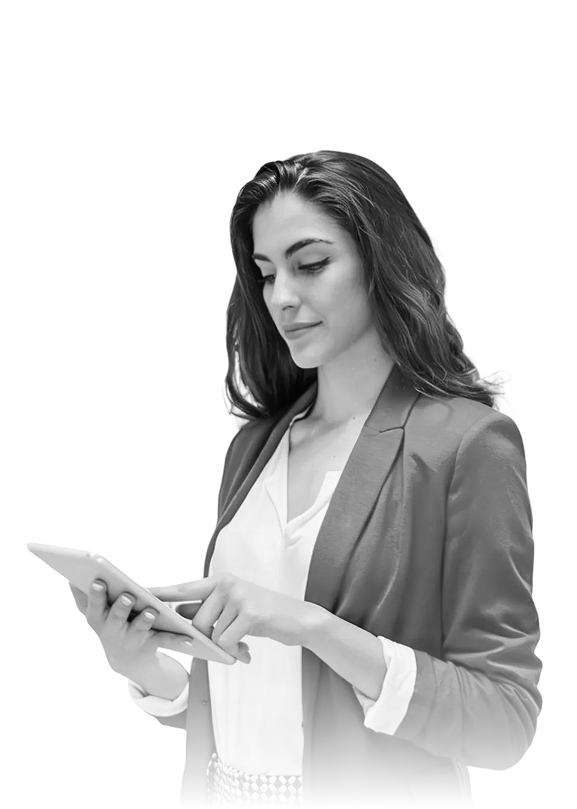
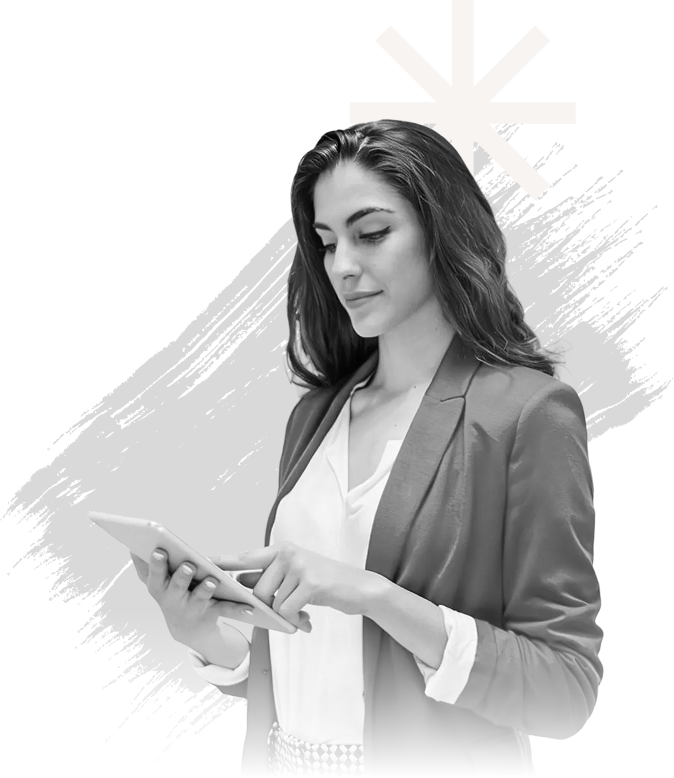
awards and contact us CTA and images has been replaced

Changed region(s): [[0.0, 0.1542, 0.9983, 0.9871], [0.7799, 0.9254, 0.8111, 0.9871], [0.4679, 0.9563, 0.4991, 0.9871]]

diff --git a/app/digital-transformation-services/components/ContactSection.tsx b/app/digital-transformation-services/components/ContactSection.tsx
@@ -1,0 +1,97 @@
+import React from "react";
+
+const ContactSection: React.FC = () => {
+  return (
+    <section className="w-full bg-[#F9FAFB] sm:px-5 md:px-5 md:py-16 lg:pb-10">
+      <div className="max-w-7xl mx-auto">
+
+        {/* Desktop */}
+        <div
+          className="hidden sm:block md:block 
+           rounded-[15px] px-12 py-10 sm:py-5 md:py-5 lg:px-16 lg:py-8 xl:px-10 xl:py-8 
+           relative overflow-hidden
+            bg-[#EFEFEF]
+               transition-all duration-300 ease-out
+                 border-1 border-[#E1E1E1]
+                shadow-[-3px_-6px_16px_0_rgba(253,253,253,0.69),9px_5px_14px_0_rgba(0,0,0,0.15)]
+                
+                /* HOVER */
+                hover:bg-[#f5c518ac]
+                hover:border-[#E1E1E1]
+                hover:shadow-[inset_-3px_-6px_16px_0_rgba(253,253,253,0.69),inset_9px_5px_14px_0_rgba(0,0,0,0.15)]
+                hover:scale-[1.02]
+
+                /* ACTIVE */
+                active:scale-[0.99]
+
+                /* FOCUS */
+                focus:shadow-[-3px_-6px_16px_0_rgba(253,253,253,0.69),9px_5px_14px_0_rgba(0,0,0,0.15)]
+           "
+
+        >
+          <div className="flex items-center justify-between">
+            <div className="max-w-3xl">
+
+              <h4 className="text-[#0a0e1a] text-4xl sm:text-[25px] md:text-[25px] lg:text-[30px] xl:text-[35px] font-manrope font-bold mb-4 tracking-tight">
+                Begin Your Transformation Journey
+              </h4>
+
+              <p className="text-[#0a0e1a] xl:max-w-5xl text-base sm:text-[12px] md:text-[11px] lg:text-[14px] xl:text-[15px] opacity-90 leading-relaxed">
+                Begin your transformation journey with Beelockchain’s skilled experts. 
+                Build a future-ready organization using a structured digital business 
+                transformation service approach.
+              </p>
+
+            </div>
+
+            <div className="ml-8">
+              <button className="bg-[#0a0e1a] text-white px-8 py-3 rounded-full font-medium text-base hover:bg-[#151b2b] transition-colors duration-300 whitespace-nowrap sm:text-[12px] md:text-[12px] lg:text-[14px] xl:text-[16px]">
+                Get Free Consultation
+              </button>
+            </div>
+          </div>
+        </div>
+
+        {/* Mobile */}
+        <div
+          className="sm:hidden md:hidden font-manrope px-7 py-10 text-center tracking-tight
+          bg-[#EFEFEF]
+               transition-all duration-300 ease-out
+                 border-1 border-[#E1E1E1]
+                shadow-[-3px_-6px_16px_0_rgba(253,253,253,0.69),9px_5px_14px_0_rgba(0,0,0,0.15)]
+                
+                /* HOVER */
+                hover:bg-[#f5c518ac]
+                hover:border-[#E1E1E1]
+                hover:shadow-[inset_-3px_-6px_16px_0_rgba(253,253,253,0.69),inset_9px_5px_14px_0_rgba(0,0,0,0.15)]
+                hover:scale-[1.02]
+
+                /* ACTIVE */
+                active:scale-[0.99]
+
+                /* FOCUS */
+                focus:shadow-[-3px_-6px_16px_0_rgba(253,253,253,0.69),9px_5px_14px_0_rgba(0,0,0,0.15)]
+          "
+
+        >
+          <h2 className="text-[#0a0e1a] text-[25px] font-bold mb-4">
+            Begin Your Transformation Journey
+          </h2>
+
+          <p className="text-[#0a0e1a] text-[12px] opacity-90 leading-relaxed mb-8">
+            Begin your transformation journey with Beelockchain’s skilled experts. 
+            Build a future-ready organization using a structured digital business 
+            transformation service approach.
+          </p>
+
+          <button className="bg-[#0a0e1a] text-white px-8 py-3 rounded-full font-medium text-[13px] hover:bg-[#151b2b] transition-colors duration-300 w-full max-w-xs mx-auto block">
+            Get Free Consultation
+          </button>
+        </div>
+
+      </div>
+    </section>
+  );
+};
+
+export default ContactSection;

diff --git a/app/digital-transformation-services/components/AwardsSection.tsx b/app/digital-transformation-services/components/AwardsSection.tsx
@@ -1,0 +1,89 @@
+import Image from "next/image";
+
+// Replace these with your actual award image paths
+const awards = [
+  { src: "/assets/images/beelock-reward1.png", alt: "Clutch Top Rated" },
+  { src: "/assets/images/beelock-reward2.png", alt: "GoodFirms Top Mobile App Development Company" },
+  { src: "/assets/images/beelock-reward3.png", alt: "Clutch Top Company" },
+  { src: "/assets/images/beelock-reward4.png", alt: "Top Software Developer" },
+  { src: "/assets/images/beelock-reward5.png", alt: "GoodFirms Top Mobile Development Company" },
+];
+
+export default function AwardsSection() {
+  return (
+    <section className="w-full bg-white py-16 px-4">
+      {/* Heading */}
+      <div className="max-w-4xl mx-auto text-center mb-12">
+        <h2 className="text-[22px] md:text-2xl lg:text-4xl font-bold text-gray-900 leading-tight mb-4">
+          Awards &{" "}
+          <span data-text="Recognition Milestones" className="shine-text relative text-[#f5c518]">Recognition Milestones</span>{" "}
+          That
+          <br />
+          Reflect Our Commitment to Quality
+        </h2>
+        <p className="text-[#525252] text-[12px] md:text-[13px] xl:text-[15px] font-poppins">
+          Our recognitions reflect our dedication to excellence and innovation in software and mobile app development services.
+          We create solutions that provide long-term value for their business. This approach enables us to consistently exceed
+          client expectations while maintaining high-quality standards.
+        </p>
+      </div>
+
+      {/* Awards Grid */}
+      {/* Desktop: 5 in a row | Mobile: 3 first row, 2 second row centered */}
+      <div className="max-w-5xl mx-auto">
+
+        {/* Desktop layout: all 5 in one row */}
+        <div className="hidden md:flex items-center justify-center gap-6">
+          {awards.map((award, index) => (
+            <div
+              key={index}
+              className="flex items-center justify-center bg-[#F5F7F9]  border border-gray-100 rounded-xl p-5 w-40 h-40 md:w-30 md:h-30 xl:w-40 xl:h-40 hover:shadow-md transition-shadow duration-300"
+            >
+              <img
+                src={award.src}
+                alt={award.alt}
+                className="w-full h-full object-cover"
+              />
+            </div>
+          ))}
+        </div>
+
+        {/* Mobile layout: 3 on first row, 2 centered on second row */}
+        <div className="flex flex-col gap-4 md:hidden">
+          {/* First row: 3 items */}
+          <div className="flex items-center justify-center gap-4">
+            {awards.slice(0, 3).map((award, index) => (
+              <div
+                key={index}
+                className="flex items-center justify-center  border border-gray-100 rounded-xl  w-20 h-20"
+              >
+                <img
+                  src={award.src}
+                  alt={award.alt}
+                  className="w-full h-full object-cover"
+                />
+              </div>
+            ))}
+          </div>
+
+          {/* Second row: 2 items centered */}
+          <div className="flex items-center justify-center gap-4">
+            {awards.slice(3, 5).map((award, index) => (
+              <div
+                key={index}
+                className="flex items-center justify-center bg-gray-50 border border-gray-100 rounded-xl  w-20 h-20"
+              >
+                <img
+                  src={award.src}
+                  alt={award.alt}
+                  className="w-full h-full object-cover"
+                />
+              </div>
+            ))}
+          </div>
+        </div>
+
+      </div>
+    </section>
+  );
+}

diff --git a/app/components/Topnav.tsx b/app/components/Topnav.tsx
@@ -321,7 +321,7 @@ const isActive = (href: string, hasDropdown?: boolean) => {
                 <div key={item.label} className="w-full">
                   <button
                     onClick={() => setMobileServiceOpen((p) => !p)}
-                    className="text-md font-semibold text-black hover:text-yellow-500 transition"
+                    className="text-md font-medium text-black hover:text-yellow-500 transition"
                   >
                     {item.label}
                   </button>
@@ -345,7 +345,7 @@ const isActive = (href: string, hasDropdown?: boolean) => {
                   key={item.label}
                   href={item.href}
                   target="_blank"
-                  className="text-md font-semibold text-black hover:text-yellow-500 transition"
+                  className="text-md font-medium text-black hover:text-yellow-500 transition"
                   onClick={() => setSideMenuOpen(false)}
                 >
                   {item.label}

diff --git a/app/digital-transformation-services/page.js b/app/digital-transformation-services/page.js
@@ -10,6 +10,8 @@ import Whatwedo from "./components/Whatwedo";
 import WhyDigitalTransformation from "./components/Whydigitaltrans";
 import FAQ from "./components/FAQ";
 import SubIndustriesWeServe from "./components/Sub-industriesweserve";
+import AwardsSection from "./components/AwardsSection"
+import ContactSection from "./components/ContactSection"
 import Script from "next/script";
 export const metadata = {
   title: " Digital Transforms | Innovation & Technology",
@@ -137,7 +139,9 @@ export default function DigitalTransforms() {
           <RoadMapCard />
           <EndToEndServices/>
            <SubIndustriesWeServe />
+           <AwardsSection/>
           <BenefitsSection/>
+          <ContactSection/>
           <FAQ />
       </main>
     </>

diff --git a/app/components/OverView.tsx b/app/components/OverView.tsx
@@ -58,7 +58,7 @@ const cardsData = [
     hoverLogo: `${ASSET_URL}/images/Heromainimg.webp`,
     hoverTitle: "Safe & Scalable 24x7",
     hoverSubtitle: "Data Infrastructure",
-    image: `${ASSET_URL}/images/whychooseusimg3.webp`,
+    image: `assets/images/whychooseusimg3.webp`,
     description:
       "Beelockchain helps organizations stay ahead of change. We respond quickly to market shifts, emerging technologies, and customer demands—enabling confident decisions and sustained competitiveness in dynamic environments.",
   },

diff --git a/app/globals.css b/app/globals.css
@@ -144,10 +144,10 @@ body {
 
 @keyframes shineMove {
   0% {
-    background-position: -200% 0;
+    background-position: -150% 0;
   }
   100% {
-    background-position: 200% 0;
+    background-position: 150% 0;
   }
 }
 .pin-spacer{

diff --git a/app/digital-transformation-services/components/Whatwedo.tsx b/app/digital-transformation-services/components/Whatwedo.tsx
@@ -14,7 +14,7 @@ const Whatwedo = () => {
     },
     {
       id: 3,
-      image: "assets/images/Digi-trans-sub-img2.svg",
+      image: "/assets/images/legacy-system.png",
       title: "Legacy system limitations",
     },
   ];
